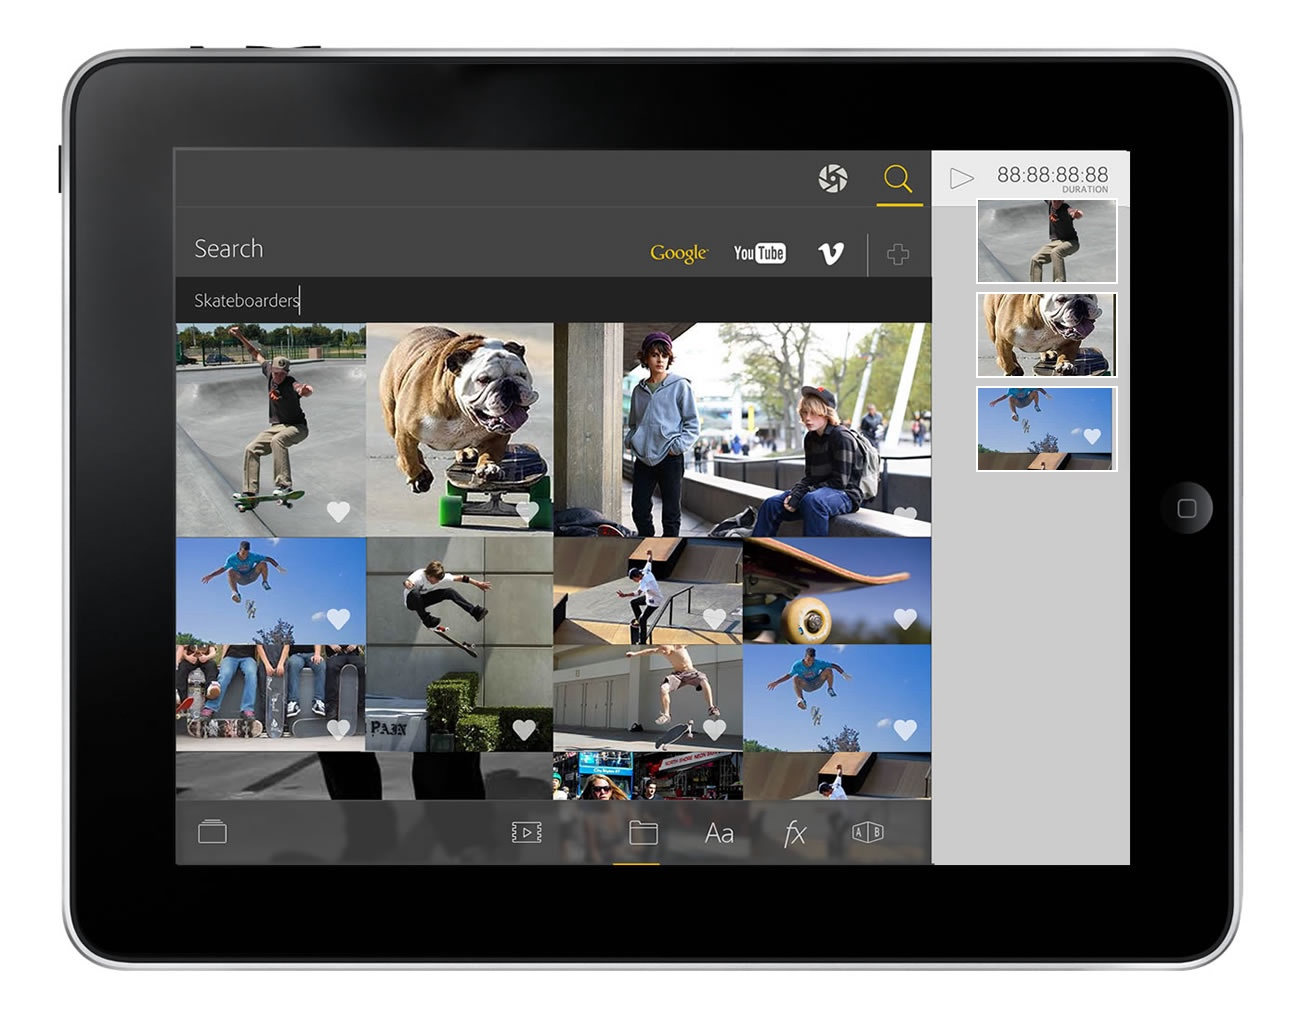
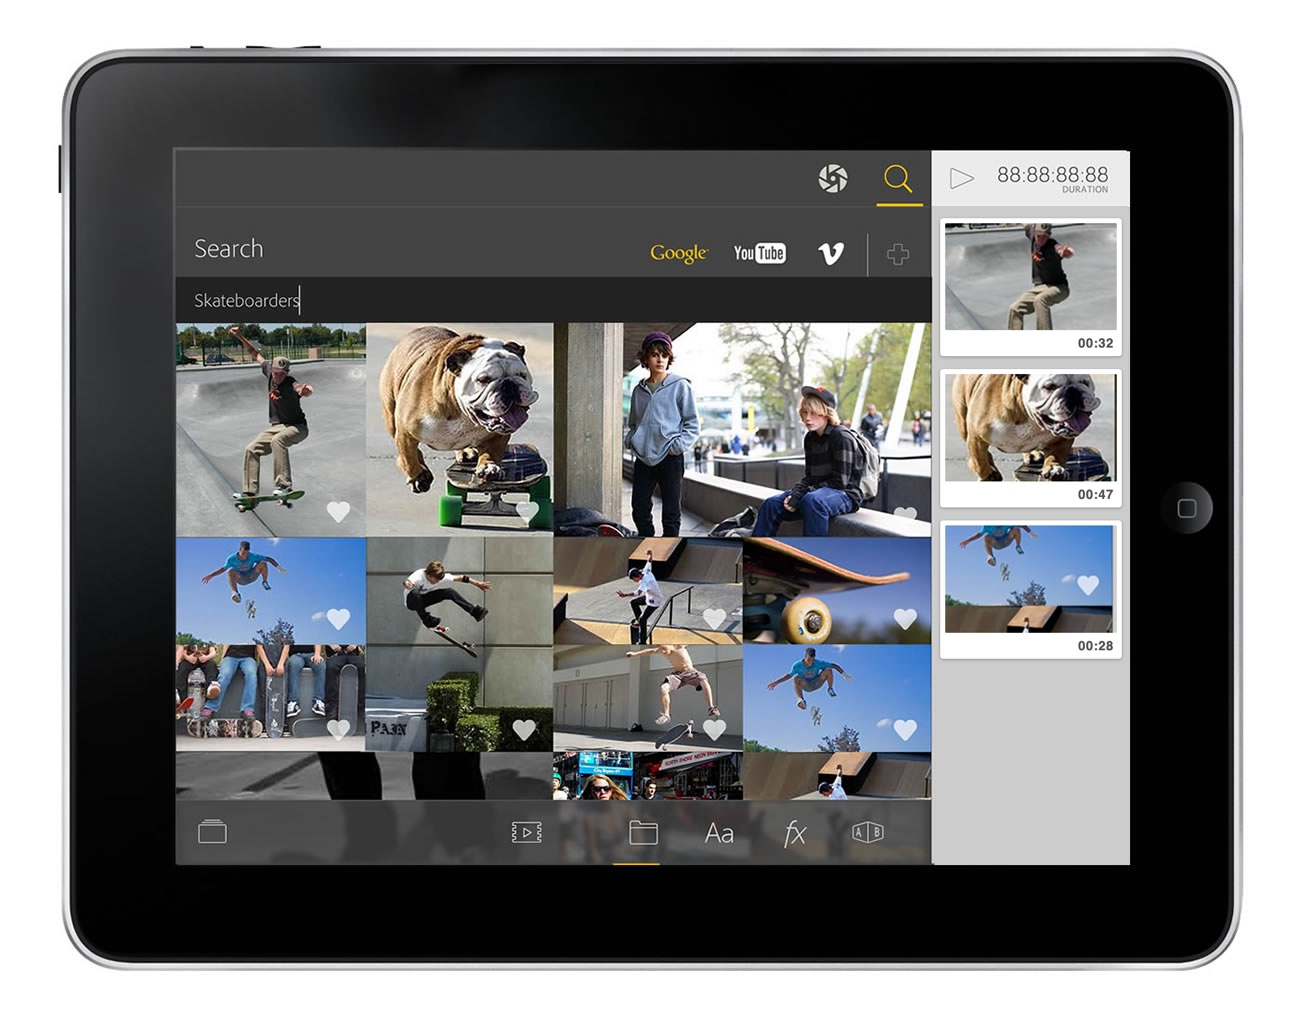
Adobe: rail thumbnails rebuilt to exact hero card style; clean up hero iPad cutout edges
- Right-rail clips now match the hero: white card, photo, duration caption, soft shadow (no border), aligned
- Re-cut the hero iPad from the white-bg source with anti-aliased alpha (erode light rim + feather), fixing the ragged/haloed edges on the coral glow

Changed region(s): [[0.7077, 0.1822, 0.8615, 0.668]]

diff --git a/adobe.html b/adobe.html
@@ -176,7 +176,7 @@
     </div>
   </div>
   <div class="dhero-r">
-    <div class="dvisual"><img src="assets/img/adobe-hero.png?v=1" alt="Adobe tablet app — the Sources view browsing Behance projects, with a clip timeline and duration on the right" /></div>
+    <div class="dvisual"><img src="assets/img/adobe-hero.png?v=2" alt="Adobe tablet app — the Sources view browsing Behance projects, with a clip timeline and duration on the right" /></div>
     <div class="sbands">
       <div class="sband"><span class="num">Touch</span><span class="desc">A timeline rebuilt for fingers, not a mouse</span></div>
       <div class="sband"><span class="num">Behance</span><span class="desc">Source footage and inspiration in a tap</span></div>
@@ -191,7 +191,7 @@
     <p class="label">Context</p>
     <h2 class="heading2 heading-split">A studio <span class="l2">in your hands</span></h2>
     <p class="body-lg">Editing video meant being chained to a desktop. This concept reimagined the whole workflow for tablet — a touch-native canvas where anyone could assemble a story from their own clips and the vast library of work on Behance, then export something finished.</p>
-    <div class="video-lg"><img class="context-shot" src="assets/img/adobe-context.jpg?v=1" alt="Adobe tablet app — the Search view finding footage across Google, YouTube, and Vimeo (searching 'Skateboarders') to drop straight into the timeline" /></div>
+    <div class="video-lg"><img class="context-shot" src="assets/img/adobe-context.jpg?v=2" alt="Adobe tablet app — the Search view finding footage across Google, YouTube, and Vimeo (searching 'Skateboarders') to drop straight into the timeline" /></div>
     <div class="cols2">
       <div class="col"><h4>The Challenge</h4><p>Professional video tools assumed a mouse, a keyboard, and a big screen. None of that translated to a tablet, where the interactions, the screen budget, and the creator's mindset are completely different.</p></div>
       <div class="col"><h4>The Opportunity</h4><p>A tablet app could meet creators where they already were — capturing and sharing on the go — and turn the iPad into a real place to source, cut, and finish a story, not just review one.</p></div>
